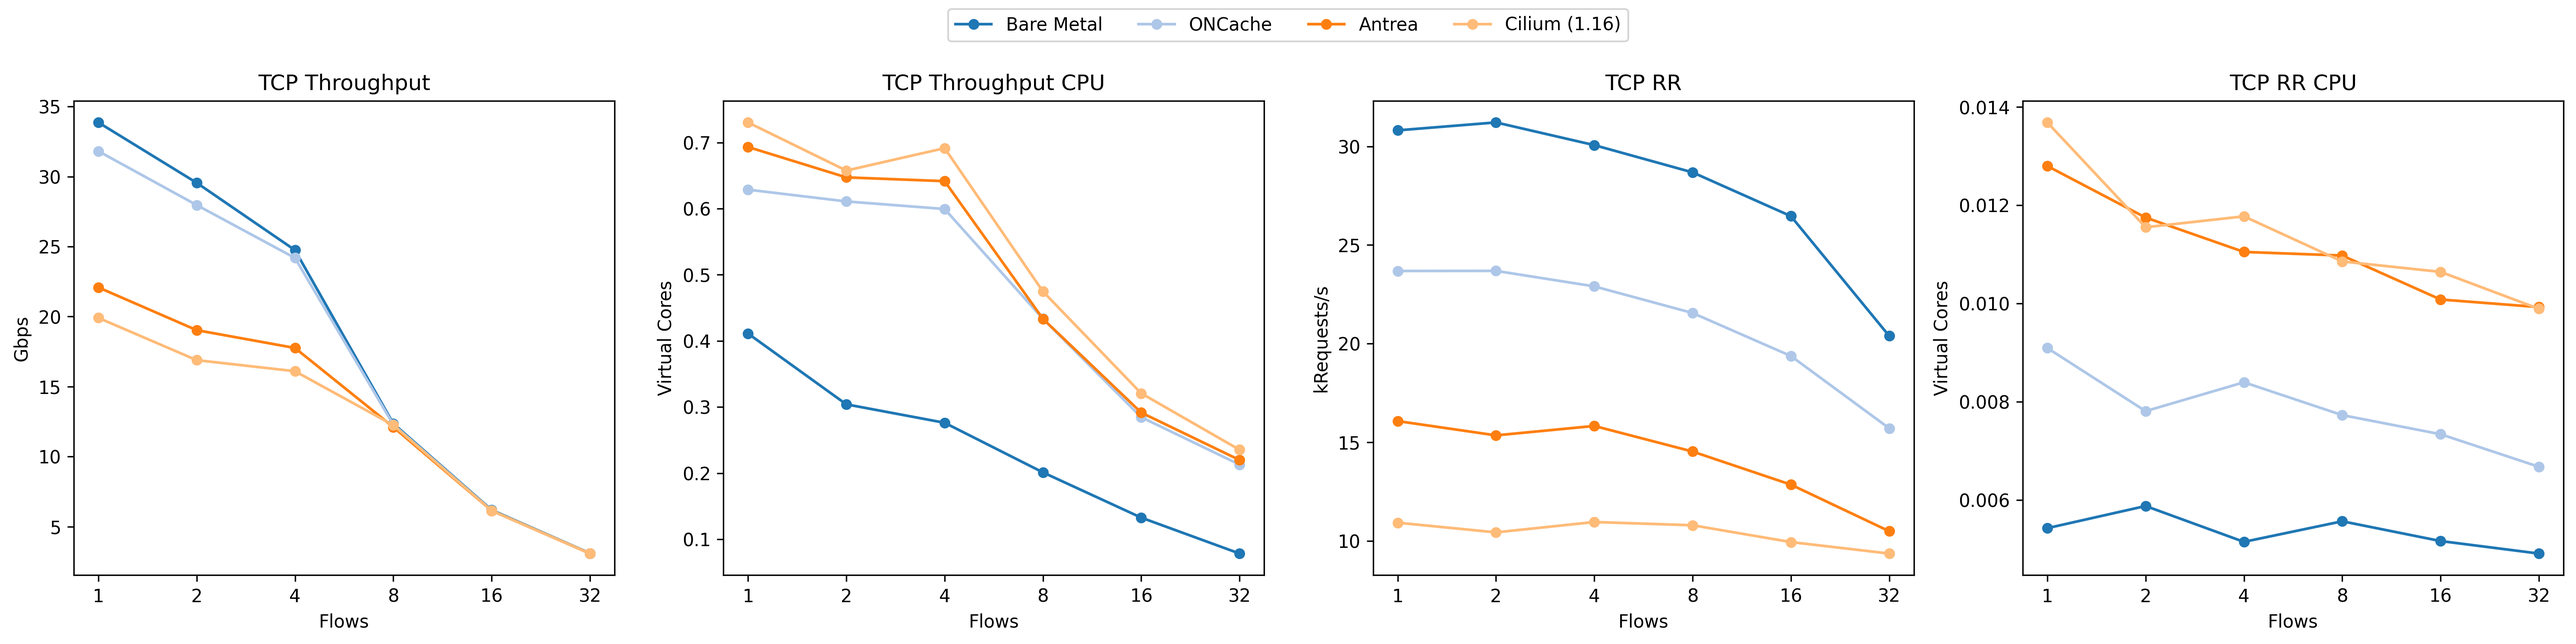
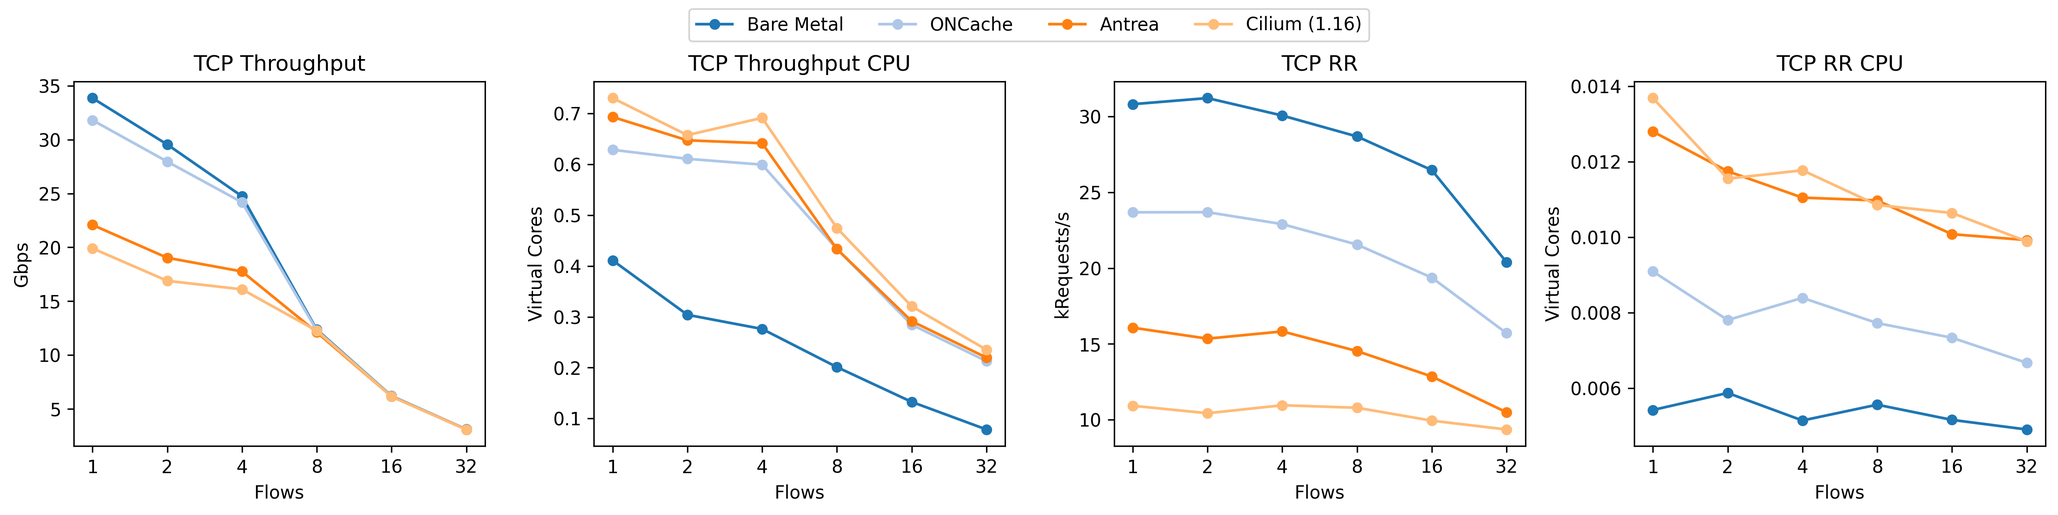
Update plots again

diff --git a/plot.py b/plot.py
@@ -139,7 +139,7 @@ def plot_data(
     Args:
         data (Dict[str, pd.DataFrame]): A dictionary containing DataFrames for each data source .
     """
-    fig, plts = plt.subplots(1, len(GRAPHS), figsize=(20, 5))
+    fig, plts = plt.subplots(1, len(GRAPHS), figsize=(16, 4))
     fig.subplots_adjust(hspace=0.4)
     for i, graph in enumerate(GRAPHS):
         ax = plts[i]
